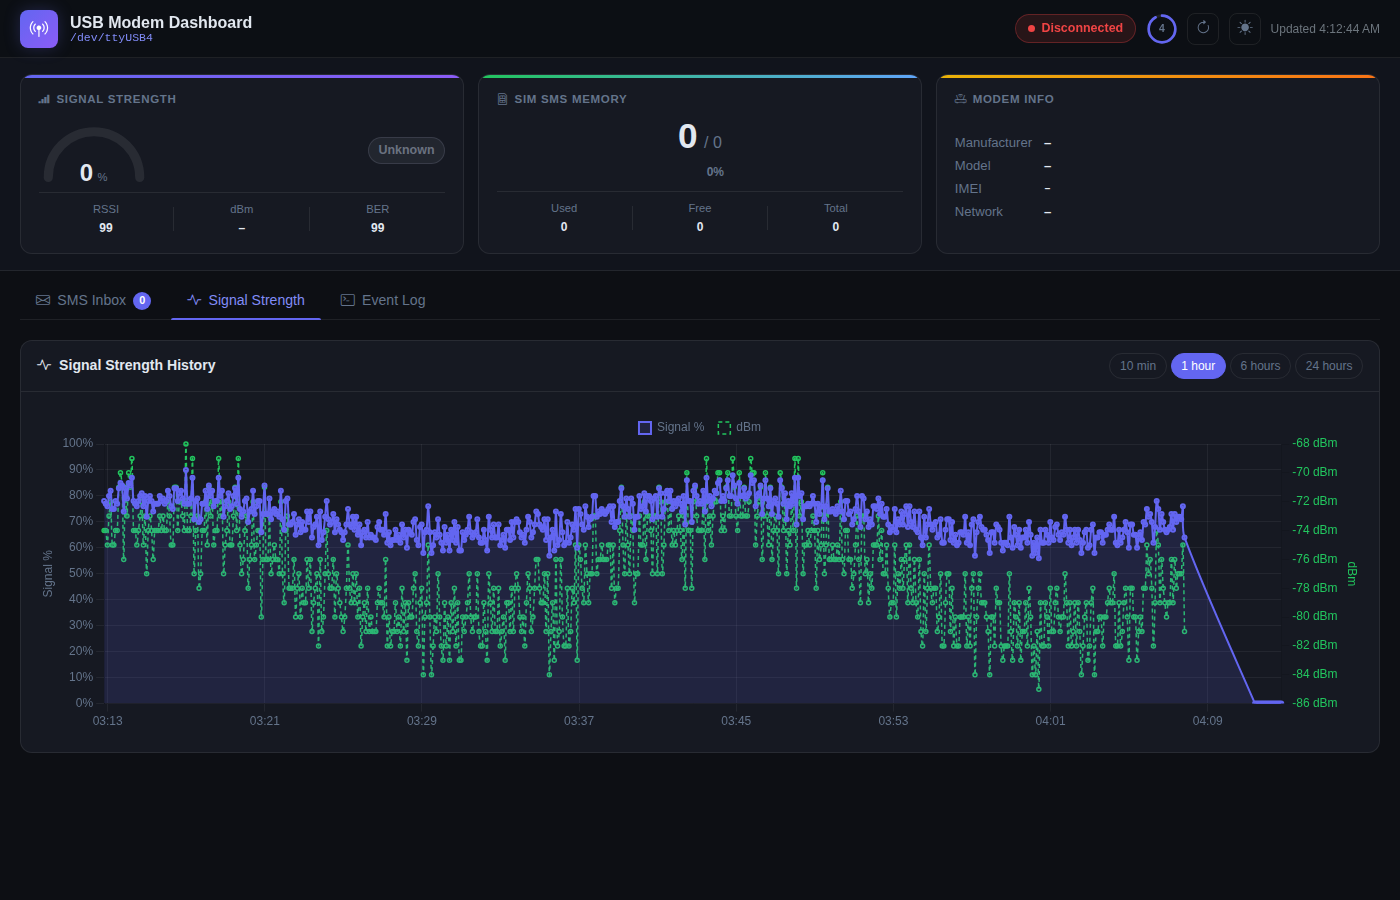
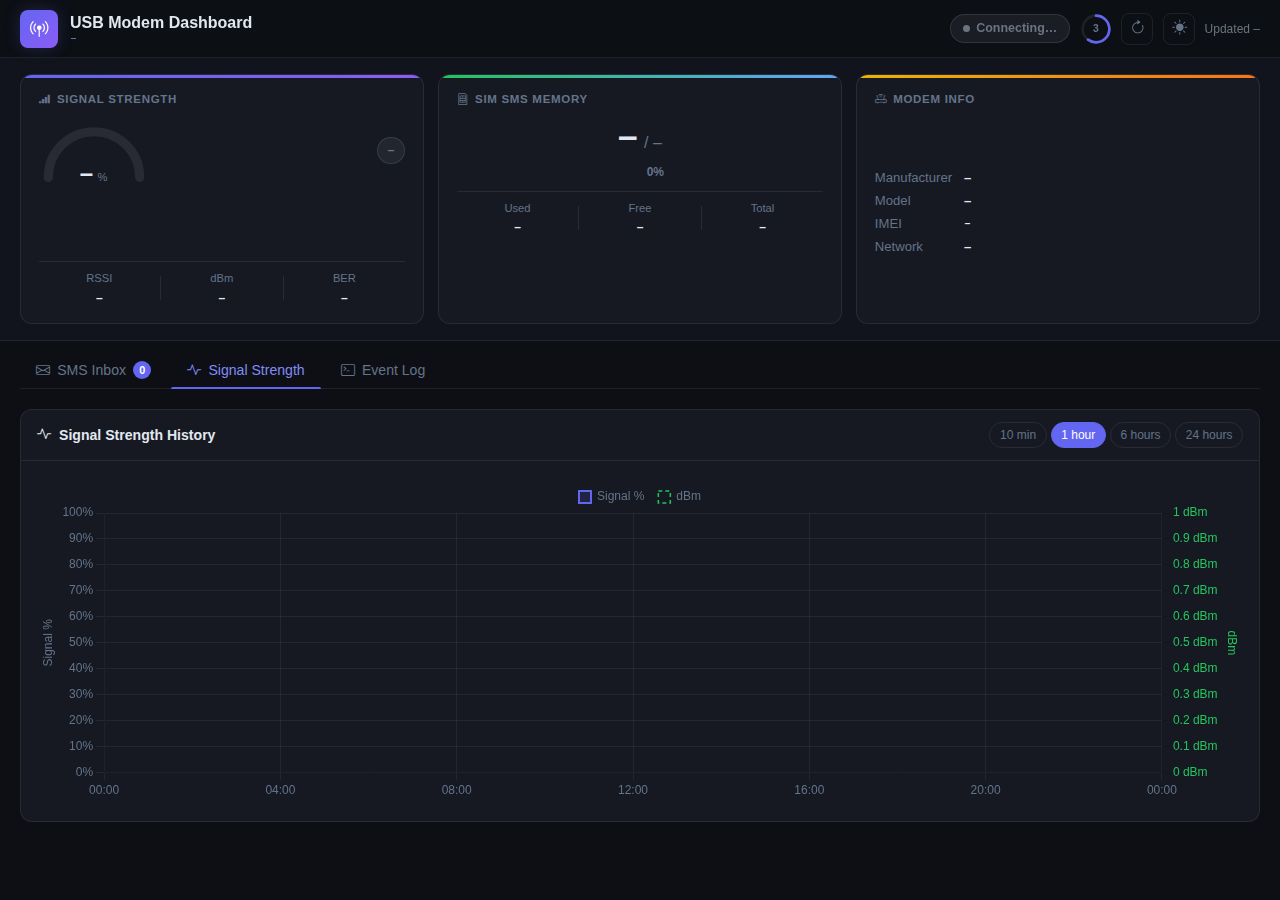
feat: add 10-min signal history sparkline to Signal Strength card
Agent-Logs-Url: https://github.com/masterlog80/sms-frontend2-copilot/sessions/569e5fa1-968d-4cac-8721-1de0ba3616c4

diff --git a/app/static/app.js b/app/static/app.js
@@ -16,6 +16,7 @@ let _signalHistory = [];
 let _signalRangeMinutes = 10;
 let _signalChart = null;
 let _signalHistoryLastTs = null;
+let _miniSignalChart = null;
 
 /* ─── Theme ──────────────────────────────────────────────────────────────── */
 const html    = document.documentElement;
@@ -284,6 +285,63 @@ function updateChartTheme(theme) {
   _signalChart.update('none');
 }
 
+function initMiniSignalChart() {
+  const ctx = document.getElementById('signalMiniChart');
+  if (!ctx) return;
+  _miniSignalChart = new Chart(ctx, {
+    type: 'line',
+    data: {
+      datasets: [{
+        data: [],
+        borderColor: CHART_COLORS.line,
+        backgroundColor: CHART_COLORS.fill,
+        fill: true,
+        tension: 0.3,
+        pointRadius: 0,
+        borderWidth: 1.5,
+      }],
+    },
+    options: {
+      responsive: true,
+      maintainAspectRatio: false,
+      animation: false,
+      interaction: { mode: 'index', intersect: false },
+      scales: {
+        x: {
+          type: 'time',
+          time: { tooltipFormat: 'HH:mm:ss', displayFormats: { second: 'HH:mm:ss', minute: 'HH:mm' } },
+          grid: { display: false },
+          ticks: { display: false },
+          border: { display: false },
+        },
+        y: {
+          min: 0,
+          max: 100,
+          grid: { display: false },
+          ticks: { display: false },
+          border: { display: false },
+        },
+      },
+      plugins: {
+        legend: { display: false },
+        tooltip: {
+          callbacks: {
+            label: ctx => ` Signal: ${ctx.parsed.y}%`,
+          },
+        },
+      },
+    },
+  });
+}
+
+function _updateMiniChart() {
+  if (!_miniSignalChart) return;
+  const cutoff = Date.now() - 10 * 60 * 1000;
+  const visible = _signalHistory.filter(e => new Date(e.timestamp).getTime() >= cutoff);
+  _miniSignalChart.data.datasets[0].data = visible.map(e => ({ x: e.timestamp, y: e.percent }));
+  _miniSignalChart.update('none');
+}
+
 function _buildChartData() {
   if (!_signalChart) return;
   const cutoff = Date.now() - _signalRangeMinutes * 60 * 1000;
@@ -293,6 +351,7 @@ function _buildChartData() {
     .filter(e => e.dbm !== null && e.dbm !== undefined)
     .map(e => ({ x: e.timestamp, y: e.dbm }));
   _signalChart.update();
+  _updateMiniChart();
 }
 
 function pushSignalPoint(signal, timestamp) {
@@ -520,6 +579,7 @@ document.getElementById('logFilters').addEventListener('click', e => {
 /* ─── Bootstrap ──────────────────────────────────────────────────────────── */
 document.addEventListener('DOMContentLoaded', () => {
   initSignalChart();
+  initMiniSignalChart();
   updateRing(REFRESH_INTERVAL);
   fetchSignalHistory().then(() => refreshAll());
   setInterval(tickCountdown, 1000);

diff --git a/app/static/style.css b/app/static/style.css
@@ -544,6 +544,14 @@ code, .font-monospace { font-family: "SFMono-Regular", Consolas, "Liberation Mon
 .lf-btn:hover { border-color: var(--accent); color: var(--text); }
 .lf-btn.active { background: var(--accent); border-color: var(--accent); color: #fff; }
 
+/* ─── Signal mini sparkline (inside stat card) ──────────────────────────── */
+.signal-mini-wrap {
+  height: 60px;
+  position: relative;
+  margin: 0 -0.1rem;
+}
+.signal-mini-wrap canvas { display: block; }
+
 /* ─── Signal Strength chart ─────────────────────────────────────────────── */
 .signal-chart-wrap {
   padding: 1rem 1rem 1.25rem;

diff --git a/app/static/index.html b/app/static/index.html
@@ -97,6 +97,9 @@
         </div>
         <span id="sigQuality" class="quality-badge quality-unknown">–</span>
       </div>
+      <div class="signal-mini-wrap">
+        <canvas id="signalMiniChart"></canvas>
+      </div>
       <div class="stat-card-footer">
         <div class="stat-kv"><span>RSSI</span><strong id="sigRssi">–</strong></div>
         <div class="stat-divider"></div>

diff --git a/README.md b/README.md
@@ -4,7 +4,7 @@ A **Dockerised web dashboard** for the *HSDPA USB STICK SIM Modem 7.2 Mbps 3G Wi
 
 The dashboard connects to the modem over the host's `/dev/ttyUSB0` serial device, polls it every **5 seconds**, and presents:
 
-- 📶 **Signal strength** – RSSI, dBm, quality badge, animated arc gauge
+- 📶 **Signal strength** – RSSI, dBm, quality badge, animated arc gauge, **inline 10-min sparkline**
 - 📈 **Signal history graph** – interactive Chart.js line chart (Signal % + dBm) with selectable time ranges: **10 min · 1 hour · 6 hours · 24 hours**
 - 💾 **SIM SMS Memory** – used / free / total slots, fill bar
 - 📱 **Modem Info** – manufacturer, model, IMEI, network registration status
@@ -23,6 +23,12 @@ reloaded automatically when the container restarts.
 ### Dark Mode
 
 ![USB Modem Dashboard – dark mode, SMS Inbox tab](screenshots/dashboard_dark.png)
+
+#### Signal Strength card with 10-min sparkline
+
+The Signal Strength card now includes a compact sparkline showing signal % history for the last 10 minutes directly inside the card.
+
+![Signal Strength card with inline 10-min sparkline](https://github.com/user-attachments/assets/3c93034a-c59b-496a-b0b3-d0948f66fc03)
 
 #### Signal Strength History (dark) – 10 min view
 
